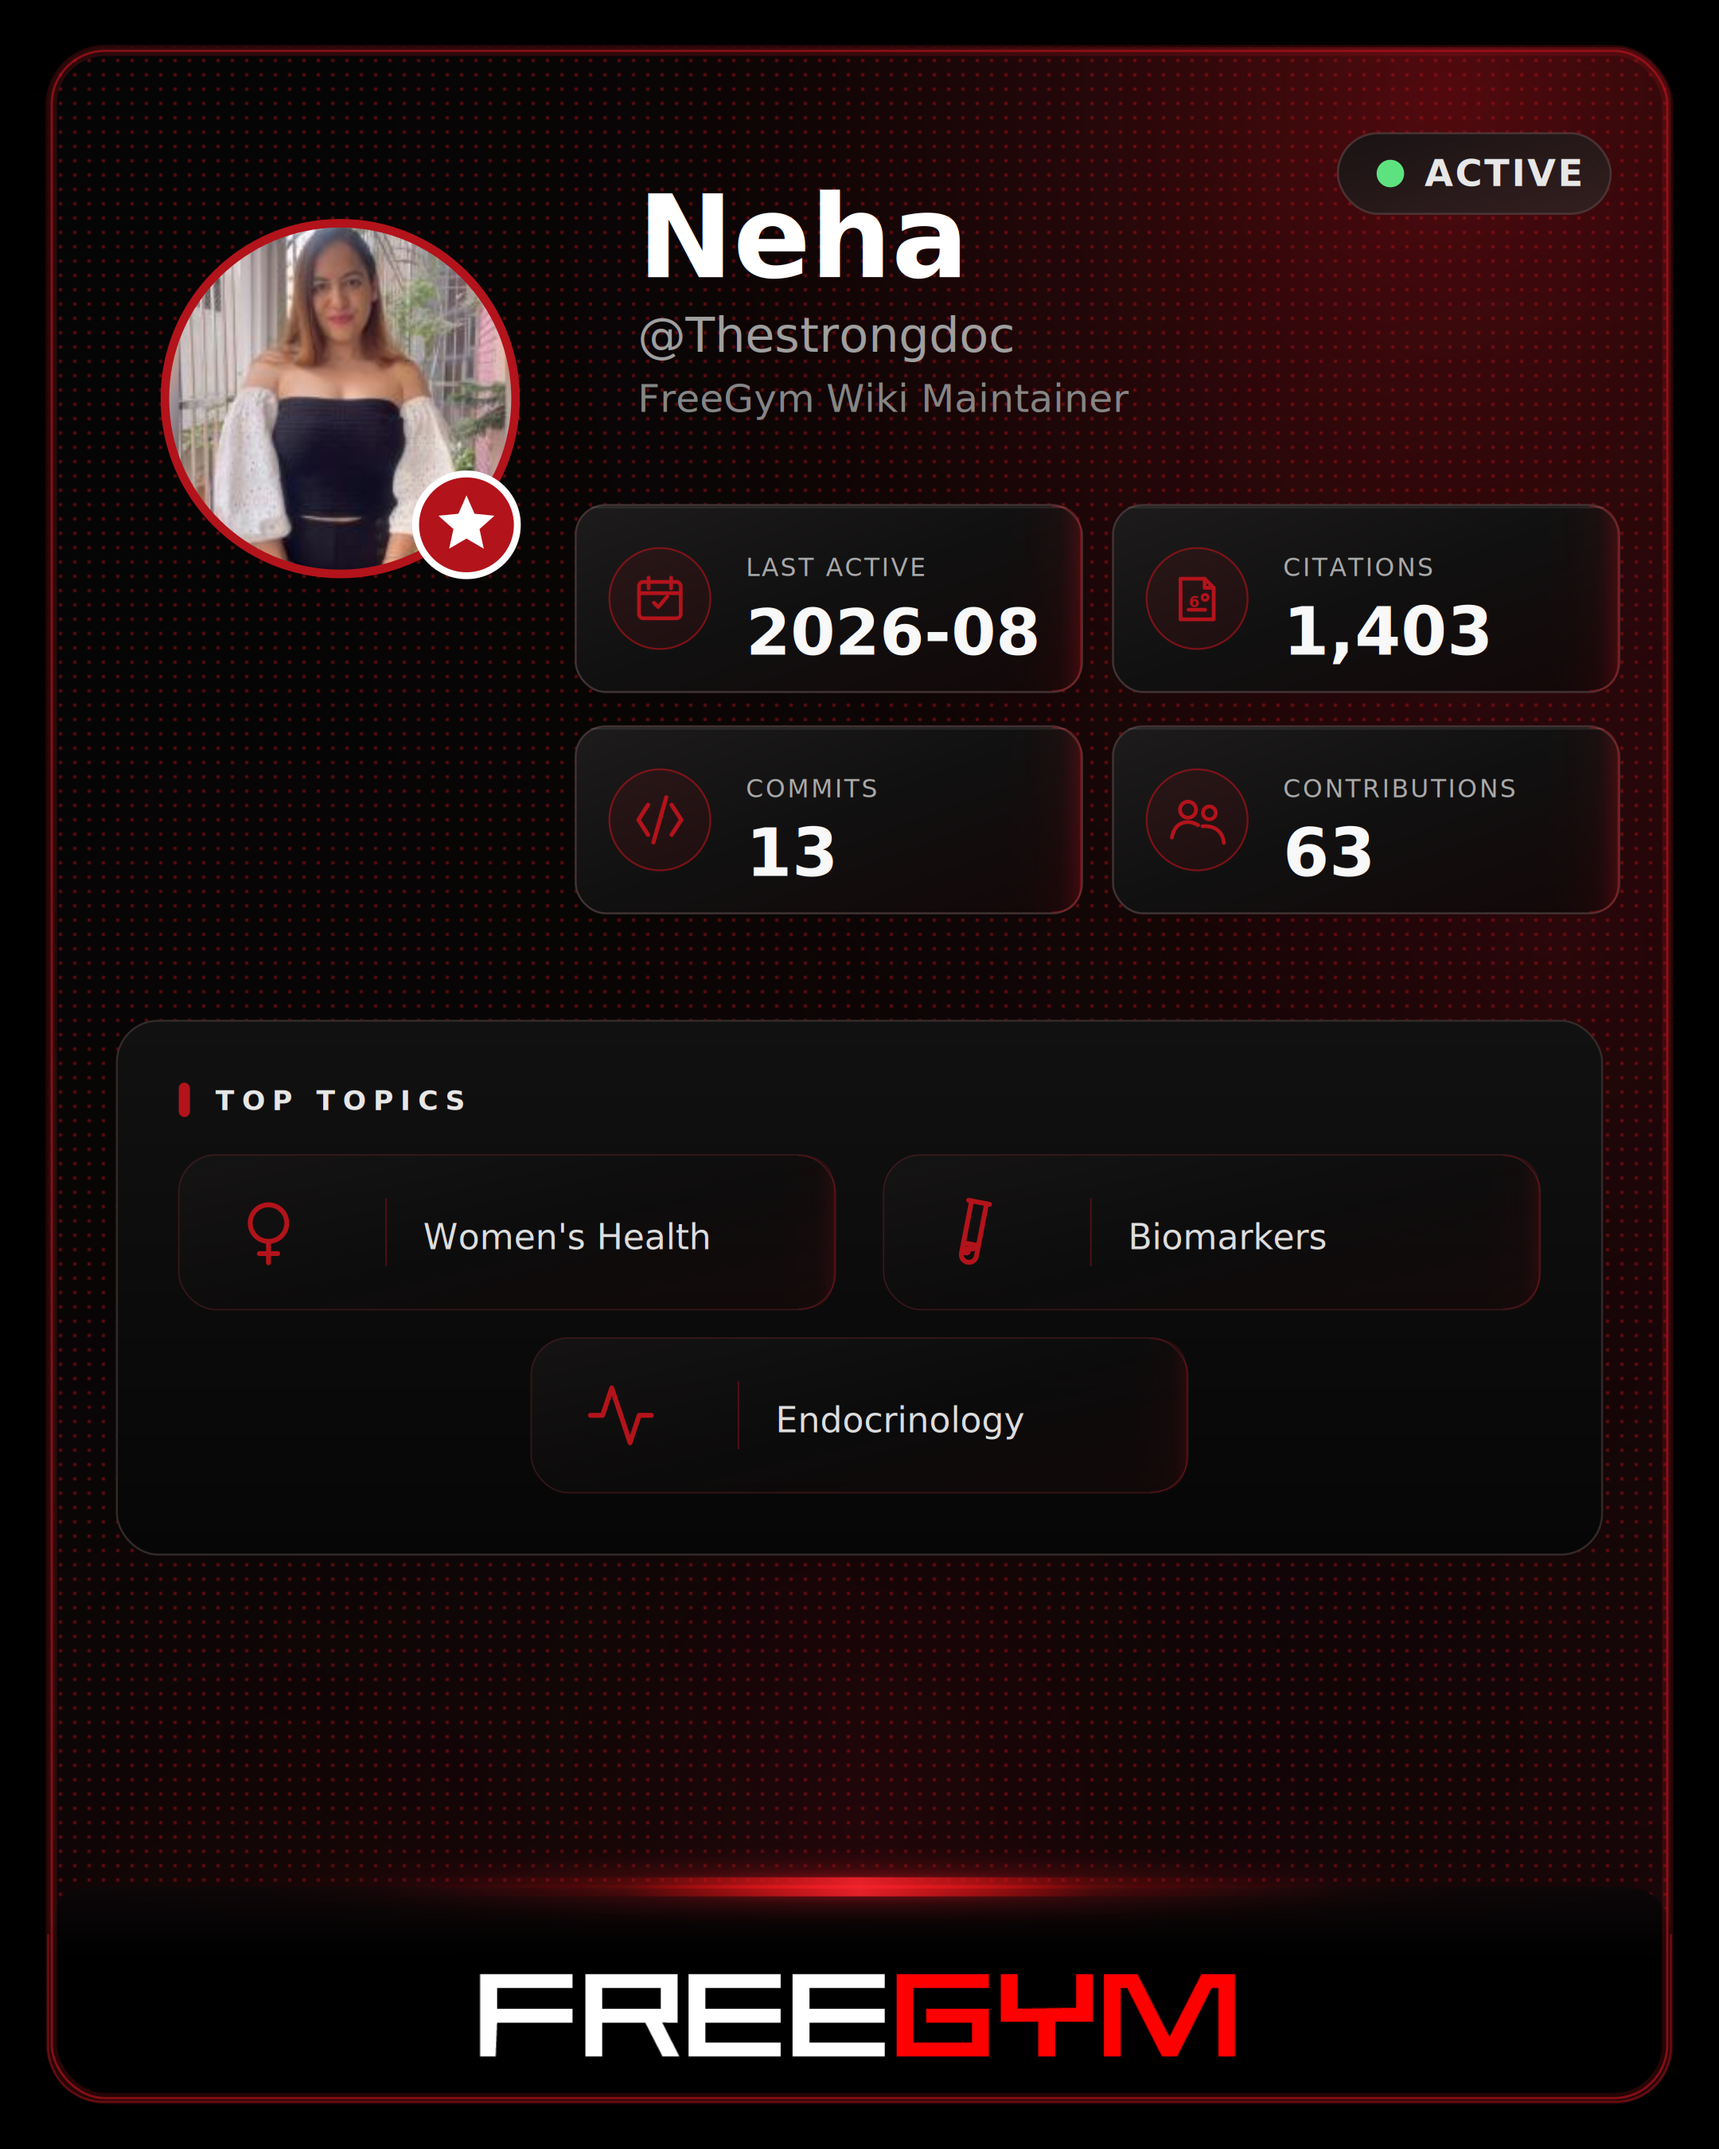
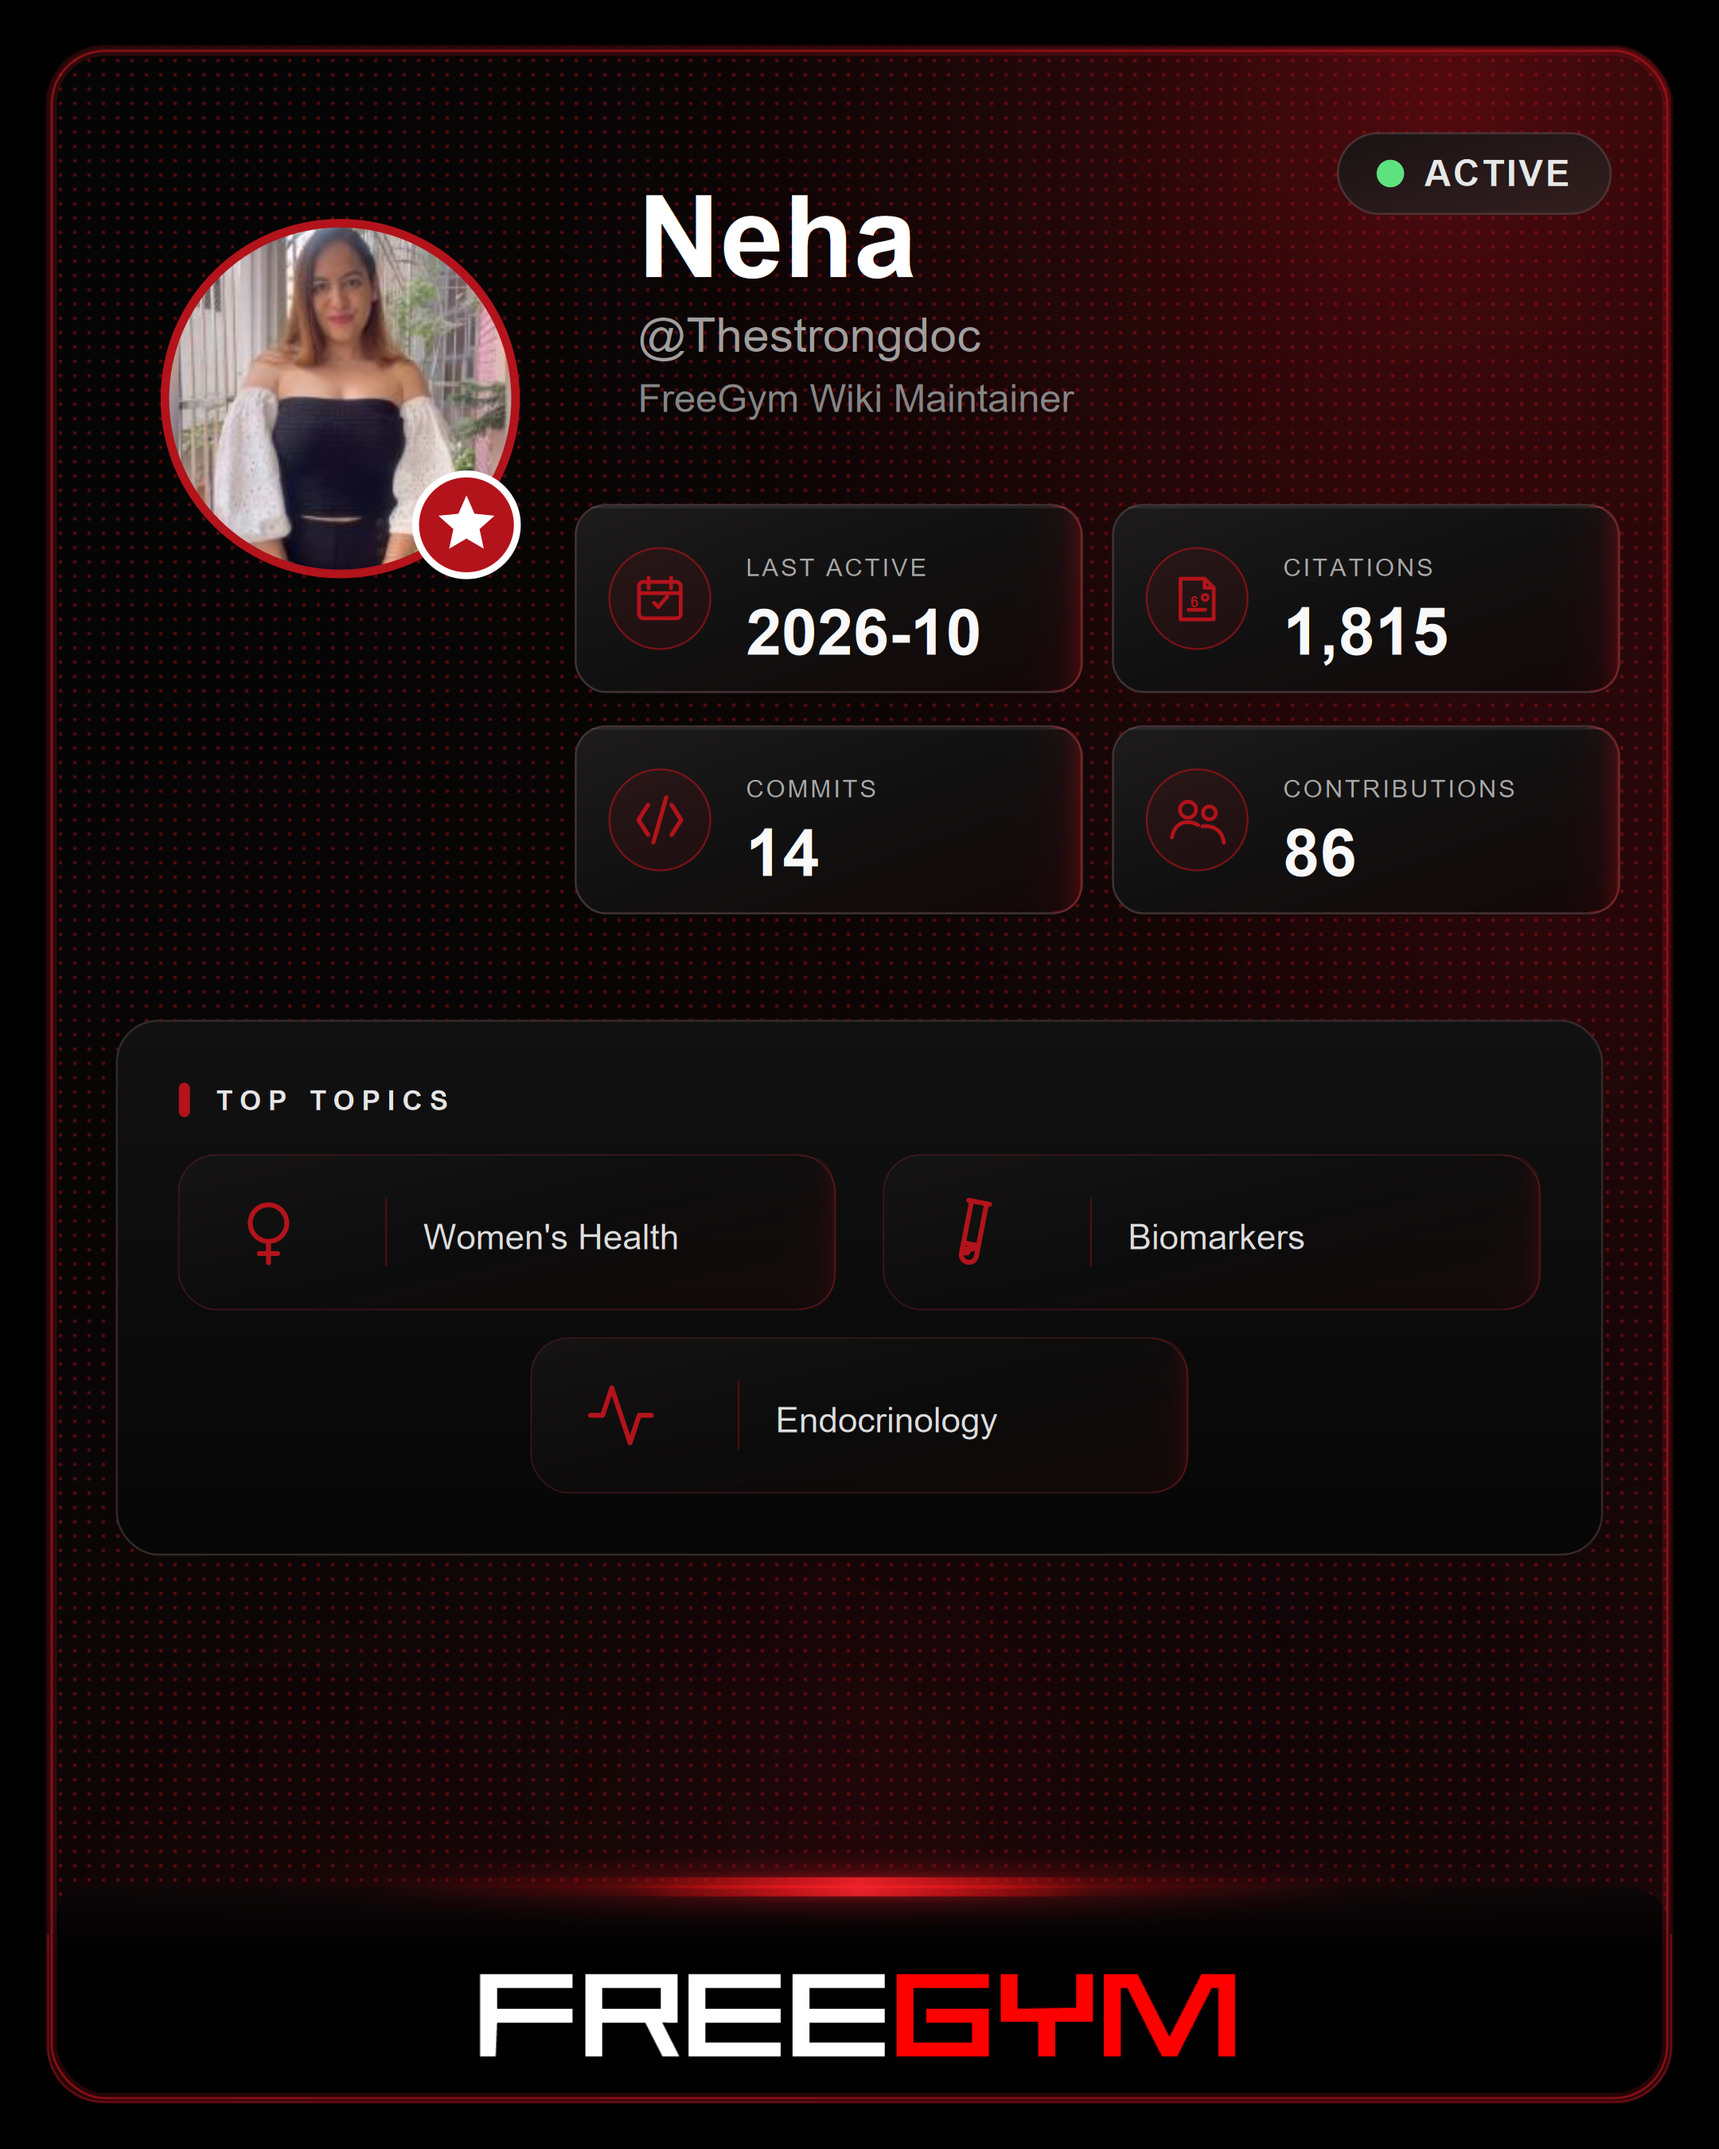
Update contributors: Thestrongdoc (PR #316)

diff --git a/CONTRIBUTORS.md b/CONTRIBUTORS.md
@@ -9,7 +9,7 @@ This file is auto-generated from [contributors.yaml](contributors.yaml). Do not 
 | | Name | Topics | Contributions | Citations | Commits | Last Active | Card |
 |---|------|-----------|---------------|-----------|---------|-------------|------|
 | <a id="mutant1643"></a>⭐ | [@mutant1643](https://github.com/mutant1643) | `Nutrition` `Exercise Physiology` `Pharmacology` `Cardiology` `Biomarkers` `Sleep` `Wearables` `Musculoskeletal` `Dermatology` | [protein.md](nutrition/Protein/protein.md), [protein-rda.md](nutrition/Protein/protein-rda.md), [protein-timing.md](nutrition/Protein/protein-timing.md) +232 more | 2788 | 347 | 2026-08 | [View](cards/mutant1643.svg) |
-| <a id="Thestrongdoc"></a>⭐ | [@Thestrongdoc](https://github.com/Thestrongdoc) | `Women's Health` `Biomarkers` `Endocrinology` | [1-is-it-normal-to-have-irregular-periods.md](Womens-Health/1-is-it-normal-to-have-irregular-periods.md), [2-do-heavy-periods-mean-something-is-wrong.md](Womens-Health/2-do-heavy-periods-mean-something-is-wrong.md), [3-do-women-really-need-to-worry-about-bone-health-earlier-than-men.md](Womens-Health/3-do-women-really-need-to-worry-about-bone-health-earlier-than-men.md) +60 more | 1403 | 13 | 2026-08 | [View](cards/Thestrongdoc.svg) |
+| <a id="Thestrongdoc"></a>⭐ | [@Thestrongdoc](https://github.com/Thestrongdoc) | `Women's Health` `Biomarkers` `Endocrinology` | [1-is-it-normal-to-have-irregular-periods.md](Womens-Health/1-is-it-normal-to-have-irregular-periods.md), [2-do-heavy-periods-mean-something-is-wrong.md](Womens-Health/2-do-heavy-periods-mean-something-is-wrong.md), [3-do-women-really-need-to-worry-about-bone-health-earlier-than-men.md](Womens-Health/3-do-women-really-need-to-worry-about-bone-health-earlier-than-men.md) +83 more | 1815 | 14 | 2026-10 | [View](cards/Thestrongdoc.svg) |
 
 ---
 
@@ -67,7 +67,7 @@ Direct link: `https://raw.githubusercontent.com/FreeGym/FreeGym-Wiki/main/cards/
 
 ```markdown
 [![FreeGym Verified](https://img.shields.io/badge/FreeGym_Wiki-%E2%AD%90_Maintainer-gold)](https://github.com/FreeGym/FreeGym-Wiki/blob/main/CONTRIBUTORS.md#Thestrongdoc)
-[![Citations](https://img.shields.io/badge/Citations-1403-blue)](https://github.com/FreeGym/FreeGym-Wiki/blob/main/CONTRIBUTORS.md#Thestrongdoc)
+[![Citations](https://img.shields.io/badge/Citations-1815-blue)](https://github.com/FreeGym/FreeGym-Wiki/blob/main/CONTRIBUTORS.md#Thestrongdoc)
 [![Women's Health](https://img.shields.io/badge/Topic-Women%27s%20Health-green)](https://github.com/FreeGym/FreeGym-Wiki/blob/main/CONTRIBUTORS.md#Thestrongdoc)
 [![Biomarkers](https://img.shields.io/badge/Topic-Biomarkers-green)](https://github.com/FreeGym/FreeGym-Wiki/blob/main/CONTRIBUTORS.md#Thestrongdoc)
 [![Endocrinology](https://img.shields.io/badge/Topic-Endocrinology-green)](https://github.com/FreeGym/FreeGym-Wiki/blob/main/CONTRIBUTORS.md#Thestrongdoc)
